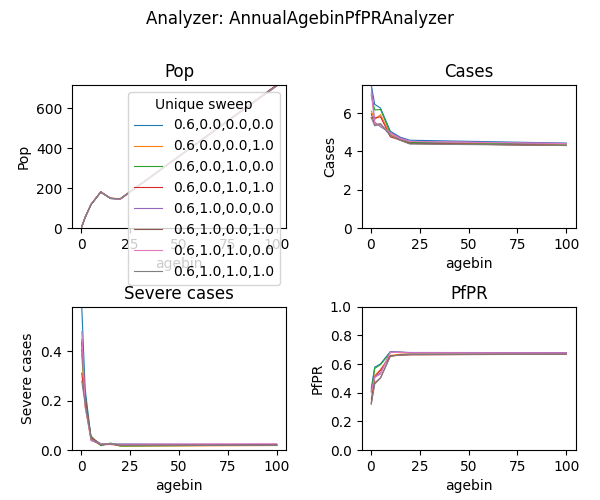
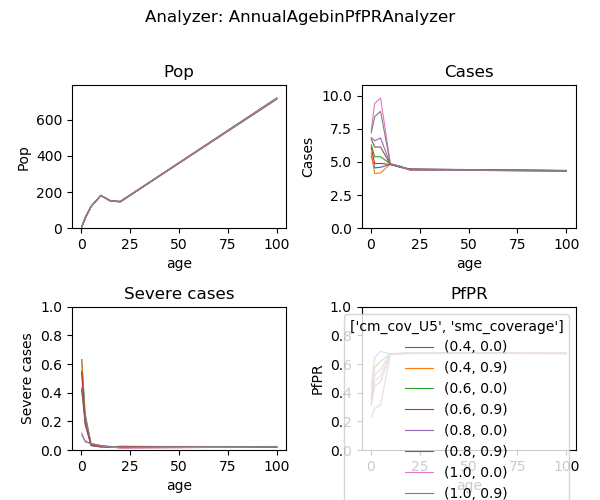
week 3b reviewed JG

diff --git a/analyze_exampleSim_w3b.py b/analyze_exampleSim_w3b.py
@@ -1,57 +1,140 @@
-import os
-import datetime
-import pandas as pd
-import numpy as np
 from simtools.Analysis.AnalyzeManager import AnalyzeManager
-from simtools.Analysis.BaseAnalyzers import BaseAnalyzer
 from simtools.SetupParser import SetupParser
+import numpy as np
+import os
 
-from analyzer_plots_collection import *
+from analyzer_collection import *
 
 import matplotlib.pyplot as plt
-import matplotlib as mpl
 import matplotlib.dates as mdates
-import seaborn as sns
-
-mpl.rcParams['pdf.fonttype'] = 42
-palette = sns.color_palette("tab10")
 
 # This block will be used unless overridden on the command-line
 SetupParser.default_block = 'LOCAL'
 
 user = os.getlogin()  # user initials
 expt_name = f'{user}_FE_2022_example_w3b'
-expt_id = '2022_04_26_07_56_42_515978'  ## change expt_id
+expt_id = '2022_05_12_21_30_58_843055'  ## change expt_id
 working_dir = os.path.join('simulation_outputs')
+
+
+def plot_inset_chart(channels_inset_chart, sweep_variables) :
+
+    # read in analyzed InsetChart data
+    df = pd.read_csv(os.path.join(working_dir, expt_name, 'All_Age_InsetChart.csv'))
+    df['date'] = pd.to_datetime(df['date'])
+    df = df.groupby(['date'] + sweep_variables)[channels_inset_chart].agg(np.mean).reset_index()
+
+    # make InsetChart plot
+    fig1 = plt.figure('InsetChart', figsize=(12,6))
+    fig1.subplots_adjust(hspace=0.5, left=0.08, right=0.97)
+    fig1.suptitle(f'Analyzer: InsetChartAnalyzer')
+    axes = [fig1.add_subplot(2, 2, x + 1) for x in range(4)]
+    for ch, channel in enumerate(channels_inset_chart) :
+        ax = axes[ch]
+        for p, pdf in df.groupby(sweep_variables):
+            ax.plot(pdf['date'], pdf[channel], '-', linewidth=0.8, label=p)
+        ax.set_title(channel)
+        ax.set_ylabel(channel)
+        ax.xaxis.set_major_locator(mdates.MonthLocator(interval=12))
+        ax.xaxis.set_major_formatter(mdates.DateFormatter('%Y-%m-%d'))
+    axes[-1].legend(title=sweep_variables)
+    fig1.savefig(os.path.join(working_dir, expt_name, 'InsetChart.png'))
+
+
+def plot_summary_report(sweep_variables) :
+
+    # read in analyzed summary reporrt
+    channels_summary_report = ['Pop', 'Cases', 'Severe cases', 'PfPR']
+    df = pd.read_csv(os.path.join(working_dir, expt_name, 'Agebin_PfPR_ClinicalIncidence_annual.csv'))
+    df = df.sort_values(by='agebin')
+    # take mean over all years in report
+    df = df.groupby(['agebin'] + sweep_variables)[channels_summary_report].agg(np.mean).reset_index()
+
+    # make summary report plot
+    fig2 = plt.figure('Summary Report', figsize=(6, 5))
+    fig2.subplots_adjust(right=0.96, left=0.12, hspace=0.55, wspace=0.35, top=0.83, bottom=0.10)
+    axes = [fig2.add_subplot(2, 2, x + 1) for x in range(4)]
+    fig2.suptitle(f'Analyzer: AnnualAgebinPfPRAnalyzer')
+
+    for ai, channel in enumerate(channels_summary_report):
+        ax = axes[ai]
+        ax.set_title(channel)
+        ax.set_ylabel(channel)
+        ax.set_ylim(0, max([1, 1.1*np.max(df[channel])]))
+        ax.set_xlabel('age')
+
+        for p, pdf in df.groupby(sweep_variables):
+            ax.plot(pdf['agebin'], pdf[channel], '-', linewidth=0.8, label=p)
+
+    axes[-1].legend(title=sweep_variables)
+    fig2.savefig(os.path.join(working_dir, expt_name, 'Agebin_PfPR_ClinicalIncidence.png'))
+
+
+def plot_events(event_list, sweep_variables) :
+
+    # read in analyzed event data
+    df = pd.read_csv(os.path.join(working_dir, expt_name, 'Event_Count.csv'))
+    df['date'] = pd.to_datetime(df['date'])
+    cov_channel_list = ['%s_Coverage' % x[9:] for x in event_list]
+    cov_channel_list = [x for x in cov_channel_list if x in df.columns.values]
+    df = df.groupby(['date'] + sweep_variables)[event_list + cov_channel_list].agg(np.mean).reset_index()
+
+    # make event plot
+    fig3 = plt.figure('Events', figsize=(12,3*len(event_list)))
+    fig3.subplots_adjust(hspace=0.5, left=0.08, right=0.97)
+    fig3.suptitle(f'Analyzer: ReceivedCampaignAnalyzer')
+    axes = [fig3.add_subplot(len(event_list), 2, x + 1) for x in range(len(event_list)*2)]
+    for ch, channel in enumerate(event_list) :
+        ax = axes[ch*2]
+        for p, pdf in df.groupby(sweep_variables):
+            ax.plot(pdf['date'], pdf[channel], '-', linewidth=0.8, label=p)
+        ax.set_title(channel)
+        ax.set_ylabel(channel)
+        ax.xaxis.set_major_locator(mdates.MonthLocator(interval=12))
+        ax.xaxis.set_major_formatter(mdates.DateFormatter('%Y-%m-%d'))
+
+        coverage_channel = '%s_Coverage' % channel[9:]
+        if coverage_channel not in df.columns.values :
+            continue
+        ax = axes[ch*2+1]
+        for p, pdf in df.groupby(sweep_variables):
+            ax.plot(pdf['date'], pdf[coverage_channel], '-', linewidth=0.8, label=p)
+        ax.set_title(coverage_channel)
+        ax.set_ylabel(coverage_channel)
+        ax.xaxis.set_major_locator(mdates.MonthLocator(interval=12))
+        ax.xaxis.set_major_formatter(mdates.DateFormatter('%Y-%m-%d'))
+
+    axes[-1].legend(title=sweep_variables)
+    fig3.savefig(os.path.join(working_dir, expt_name, 'Events.png'))
+
 
 if __name__ == "__main__":
     SetupParser.init()
 
-    sweep_variables = ['cm_cov_U5', 'smc_coverage', 'itn_coverage',
-                       'irs_coverage', 'rtss_coverage', 'Run_Number']
+    sweep_variables = ['cm_cov_U5', 'smc_coverage', 'Run_Number']
+    event_list = ['Received_Treatment', 'Received_ITN', 'Received_SMC']
+    channels_inset_chart = ['Statistical Population', 'New Clinical Cases', 'Adult Vectors', 'Infected']
 
     analyzers = [InsetChartAnalyzer(expt_name=expt_name,
                                     working_dir=working_dir,
+                                    channels=channels_inset_chart,
                                     sweep_variables=sweep_variables),
                  AnnualAgebinPfPRAnalyzer(expt_name=expt_name,
                                           working_dir=working_dir,
                                           start_year=2022,
-                                          end_year=2025,
                                           sweep_variables=sweep_variables),
                  ReceivedCampaignAnalyzer(expt_name=expt_name,
                                           working_dir=working_dir,
-                                          channels=['Received_Treatment', 'Received_Severe_Treatment', 'Received_ITN',
-                                                    'Received_IRS', 'Received_SMC', 'Received_Vaccine'],
+                                          channels=event_list,
                                           start_year=2022,
                                           sweep_variables=sweep_variables),
-                 TransmissionReport(expt_name=expt_name,
-                                    working_dir=working_dir,
-                                    start_year=2022,
-                                    selected_year=None,
-                                    monthly_report=True,
-                                    daily_report=True,
-                                    sweep_variables=sweep_variables)
                  ]
 
     am = AnalyzeManager(expt_id, analyzers=analyzers)
     am.analyze()
+
+    sweep_vars_for_plotting = [x for x in sweep_variables if x != 'Run_Number']
+    plot_inset_chart(channels_inset_chart, sweep_vars_for_plotting)
+    plot_summary_report(sweep_vars_for_plotting)
+    plot_events(event_list, sweep_vars_for_plotting)
+    plt.show()

diff --git a/analyze_exampleSim_w3a.py b/analyze_exampleSim_w3a.py
@@ -1,18 +1,10 @@
-import os
-import datetime
-import pandas as pd
-import numpy as np
 from simtools.Analysis.AnalyzeManager import AnalyzeManager
-from simtools.Analysis.BaseAnalyzers import BaseAnalyzer
 from simtools.SetupParser import SetupParser
 
 from analyzer_collection import *
 
 import matplotlib.pyplot as plt
-import matplotlib as mpl
 import matplotlib.dates as mdates
-
-mpl.rcParams['pdf.fonttype'] = 42
 
 # This block will be used unless overridden on the command-line
 SetupParser.default_block = 'LOCAL'

diff --git a/README.md b/README.md
@@ -428,31 +428,40 @@ suggested [solution script for week 3 (a)](https://github.com/numalariamodeling/
 <details><summary><span>Click here to expand</span></summary>
 <p>
 
-- Modify and extend `ModBuilder`, previously added in week 2, to allow running different parameter sweeps
+- Add `ModBuilder` to allow running different parameter sweeps
     ```py
+    from simtools.ModBuilder import ModBuilder, ModFn
+
+    numseeds = 3
     builder = ModBuilder.from_list([[ModFn(case_management, cm_cov_U5),                     
-                                     ModFn(smc_intervention, coverage_level=smc_cov), 
                                      ## ModFn(xxx_intervention, coverage_level=xxx_cov),  # adjust to add other interventions
-                                     ModFn(DTKConfigBuilder.set_param, 'Run_Number', x),
-                                     ModFn(DTKConfigBuilder.set_param, 'Scenario', 'Basic')  # optional
+                                     ModFn(DTKConfigBuilder.set_param, 'Run_Number', x)
                                     ]
                                     for cm_cov_U5 in [0.4, 0.6] 
-                                    for smc_cov in [0, 0.6] 
+                                    ## for xxx_cov in [0, 0.6] 
                                     for x in range(numseeds)
                                     ])
     ```
 
-- Now, for the interventions to take different coverage values as shown in the example above, 
-  the previously added intervention campaigns  need to be wrapped into a function as shown below:  
+    Adjust the `run_sim_args` block to include the builder:
+    ```py
+    run_sim_args = {
+        'exp_name': f'{user}_FE_2022_example_w3',
+        'config_builder': cb,
+        'exp_builder' : builder
+    }
+    ```
+
+- ModBuilder can consume the same `add_x()` functions we used above, but it's often cleaner to wrap each `add_x()` into another function. For each intervention you wrap and use in the builder, make sure that it's not ALSO called directly using `add_x()`.
     - <details><summary><span style="color: blue";">case_management </span></summary>
        <p>
 
        ```py
         def case_management(cb, cm_cov_U5, cm_cov_adults=0.5):
             add_health_seeking(cb, start_day=0,
-                               targets=[{'trigger': 'NewClinicalCase', 'coverage': 0.7,
+                               targets=[{'trigger': 'NewClinicalCase', 'coverage': cm_cov_U5,
                                          'agemin': 0, 'agemax': 5, 'seek': 1, 'rate': 0.3},
-                                        {'trigger': 'NewClinicalCase', 'coverage': 0.5,
+                                        {'trigger': 'NewClinicalCase', 'coverage': cm_cov_adults,
                                          'agemin': 5, 'agemax': 100, 'seek': 1, 'rate': 0.3},
                                         {'trigger': 'NewSevereCase', 'coverage': 0.85,
                                          'agemin': 0, 'agemax': 100, 'seek': 1, 'rate': 0.5}],
@@ -500,35 +509,36 @@ suggested [solution script for week 3 (a)](https://github.com/numalariamodeling/
                     repetitions=5,  # ITN will be distributed 5 times
                     tsteps_btwn_repetitions=365 * 3  # three years between ITN distributions
                     )
-          return {'itn_start': day, 'itn_coverage': coverage_level}
+            return {'itn_start': day, 'itn_coverage': coverage_level}
       
       event_list = event_list + ['Received_ITN']
 
        ```
        ```py                    
         ### Or alternatiively 
-        add_ITN_age_season(cb, start=day,
-                           demographic_coverage=coverage_level,
-                           killing_config={
-                               "Initial_Effect": 0.520249973,  # LLIN Burkina
-                               "Decay_Time_Constant": 1460,
-                               "class": "WaningEffectExponential"},
-                           blocking_config={
-                               "Initial_Effect": 0.53,
-                               "Decay_Time_Constant": 730,
-                               "class": "WaningEffectExponential"},
-                           discard_times={"Expiration_Period_Distribution": "DUAL_EXPONENTIAL_DISTRIBUTION",
-                                          "Expiration_Period_Proportion_1": 0.9,
-                                          "Expiration_Period_Mean_1": 365 * 1.7,  # Burkina 1.7
-                                          "Expiration_Period_Mean_2": 3650},
-                           age_dependence={'Times': [0, 100],
-                                           'Values': [0.9, 0.9]},
-                           duration=-1, birth_triggered=False
-                           )
+        def itn_intervention(cb, coverage_level, day=366):
+            add_ITN_age_season(cb, start=day,
+                               demographic_coverage=coverage_level,
+                               killing_config={
+                                   "Initial_Effect": 0.520249973,  # LLIN Burkina
+                                   "Decay_Time_Constant": 1460,
+                                   "class": "WaningEffectExponential"},
+                               blocking_config={
+                                   "Initial_Effect": 0.53,
+                                   "Decay_Time_Constant": 730,
+                                   "class": "WaningEffectExponential"},
+                               discard_times={"Expiration_Period_Distribution": "DUAL_EXPONENTIAL_DISTRIBUTION",
+                                              "Expiration_Period_Proportion_1": 0.9,
+                                              "Expiration_Period_Mean_1": 365 * 1.7,  # Burkina 1.7
+                                              "Expiration_Period_Mean_2": 3650},
+                               age_dependence={'Times': [0, 100],
+                                               'Values': [0.9, 0.9]},
+                               duration=-1, birth_triggered=False
+                               )
     
-        return {'itn_start': day,
-                'itn_coverage': coverage_level}
-      
+            return {'itn_start': day,
+                    'itn_coverage': coverage_level}
+          
        event_list = event_list + ['Bednet_Got_New_One', 'Bednet_Using', 'Bednet_Discarded']  # when using add_ITN_age_season
 
        ```
@@ -588,7 +598,7 @@ suggested [solution script for week 3 (a)](https://github.com/numalariamodeling/
       _(Tip: Many text editors allow side by side comparison of two scripts, automatically highlighting differences)_
 
 - Open second analyzer script for Week 3 (`analyze_exampleSim_w3b.py`) to update the _exp_id_ as usual, but now also check 
-  that all the relevant sweep variables are included in _sweep_variables_. 
+  that all the relevant sweep variables are included in _sweep_variables_ and all the events of interest are included in _event_list_. 
   The sweep_variables need to change according to the `ModBuilder` and custom functions that return parameters, which
   uniquely define single simulations.
   ```py
@@ -604,28 +614,25 @@ suggested [solution script for week 3 (a)](https://github.com/numalariamodeling/
 <p>
 
 The generated result figures include separate lines. The `Run_Numbers` were aggregated using the mean and the intervention
-coverage levels are used as additional grouping variables when aggregating simulation outputs. An additional variable '
-unique_sweep' was generaetd to simplify automated plotting for different sweep variabels (the parameters defined
-in `ModBuilder`)
-In the example below 'unique_sweep' is in the order of cm, smc, itn, irs, and rtss (rtss not included below).
+coverage levels are used as additional grouping variables when aggregating simulation outputs. You may need to adjust the location of the legend if it's covering your plot!
 
-Aggregated malaria outcomes by agebin for no SMC (blue) compared to SMC (orange).
-![img](static/w3b_smc_Agebin_PfPR_ClinicalIncidence.png)
+Examples with 4 levels of case management and 2 levels (off and on) of SMC:
+
 __Fig: Agebin_PfPR_ClinicalIncidence__
 
+![img](static/w3b_Agebin_PfPR_ClinicalIncidence.png)
 
 
-All age monthly cases showing no SMC (blue) compared to SMC (orange).
-![img](static/w3b_smc_All_Age_InsetChart.png)
 __Fig: All_Age_Monthly_Cases__
 
-Monthly transmission report showing no SMC (blue) compared to SMC (orange).
-![img](static/w3b_smc_TransmissionReport_monthly.png)
-__Fig: TransmissionReport_monthly (SMC)__
+![img](static/w3b_All_Age_InsetChart.png)
+
+__Fig: Interventions distributed__
+
+![img](static/w3b_ReceivedCampaignAnalyzer.png)
 
 Note, if too many parameters changed at once without clear labelling, the results can become difficult to interpret!
-![img](static/w3b_TransmissionReport_monthly.png)
-__Fig: TransmissionReport_monthly (multiple interventions)__
+
 
 View
 suggested [solution script for week 3 (b)](https://github.com/numalariamodeling/faculty-enrich-2022-examples/blob/main/Solution_scripts/run_exampleSim_w3b.py)
